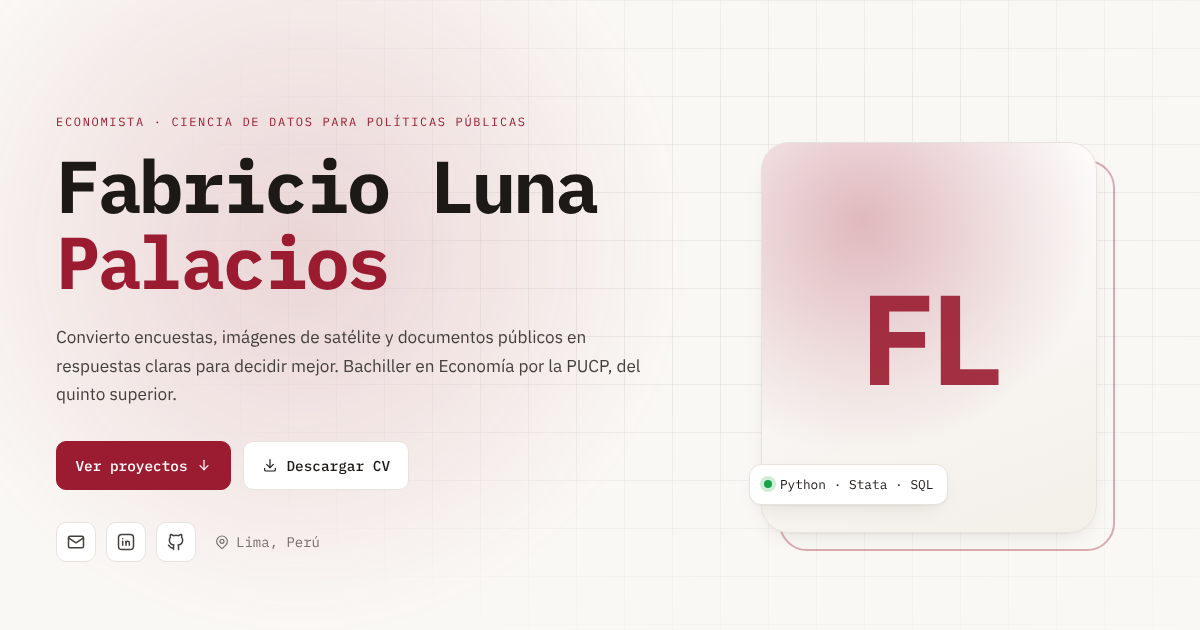
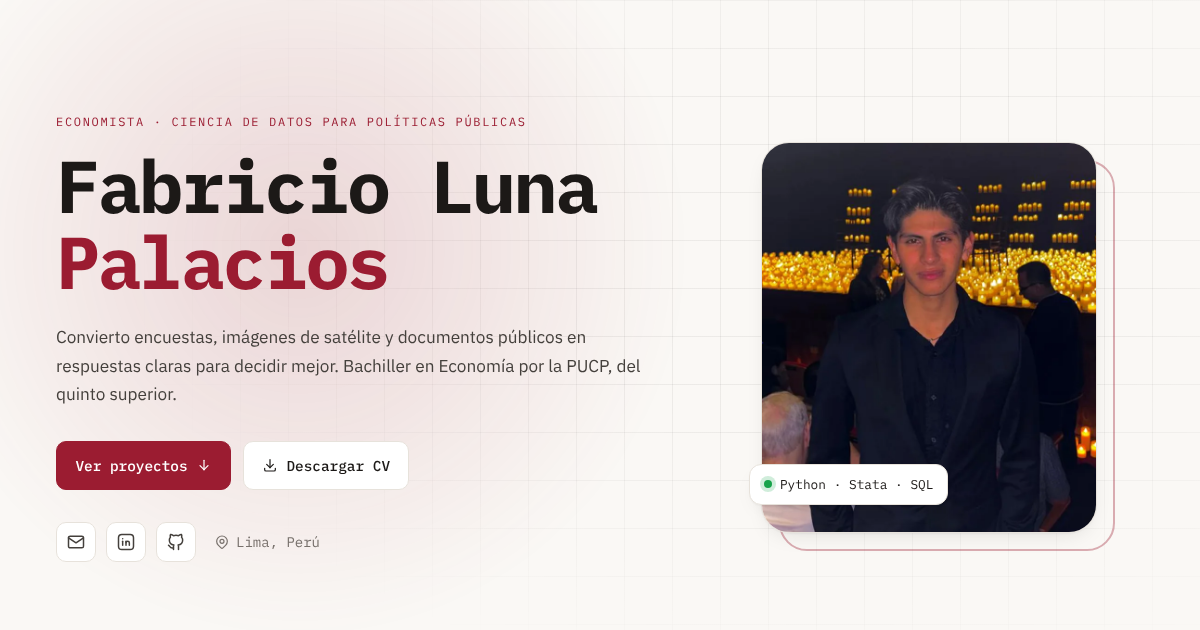
Agrega foto, hobbies con galería y el seminario del BCRP
Claude-Session: https://claude.ai/code/session_01HDh7XMuXSBMF3o1osrQZZj

Changed region(s): [[0.6167, 0.2111, 0.925, 0.8444]]

diff --git a/src/data/es.ts b/src/data/es.ts
@@ -29,7 +29,7 @@ export const es: SiteContent = {
     result: "Resultado",
     all: "Todos",
     skills: "Herramientas",
-    certifications: "Certificaciones",
+    certifications: "Certificaciones y eventos",
     achievements: "Logros",
     languages: "Idiomas",
     contactTitle: "¿Conversamos?",
@@ -45,6 +45,7 @@ export const es: SiteContent = {
     location: "Lima, Perú",
     tagline:
       "Convierto encuestas, imágenes de satélite y documentos públicos en respuestas claras para decidir mejor. Bachiller en Economía por la PUCP, del quinto superior.",
+    photo: "/images/fabricio.webp",
     initials: "FL",
     cv: "/files/CV_Fabricio_Luna.pdf",
     email: "luna.f@pucp.edu.pe",
@@ -282,23 +283,79 @@ export const es: SiteContent = {
     certifications: [
       "Análisis de Datos en Python · PUCP",
       "Machine Learning y Ciencia de Datos aplicada a Economía · PUCP",
+      "Seminario para el Congreso Bicameral · BCRP (23 oct 2026)",
     ],
     achievements: ["Top 10 % de rendimiento histórico de la Facultad de Ciencias Sociales, especialidad Economía (PUCP)."],
     languages: "Español nativo · Inglés B2",
   },
   beyond: {
     title: "Más allá de los datos",
-    intro: "Lo que hago cuando no estoy frente a una base de datos, y que también explica cómo trabajo.",
+    intro: "Lo que hago cuando no estoy frente a una base de datos: deporte, montaña, mar y un lado creativo.",
     items: [
       {
-        title: "Diseño y comunicación visual",
-        text: "Dirijo la línea gráfica de Económica PUCP: piezas, camisetas y materiales que hacen la economía más cercana.",
-        icon: "palette",
+        title: "Boxeo amateur",
+        detail: "1 pelea oficial ganada",
+        text: "Boxeador acreditado por la Academia Tito Montes de Cusco.",
+        icon: "boxing",
       },
       {
-        title: "Audiovisual y videopodcast",
-        text: "Grabo y produzco reels y videopodcast con el equipo de Económica. Contar bien una idea en un minuto es un buen entrenamiento.",
-        icon: "mic",
+        title: "Tiro con carabina",
+        detail: "Podio · Juegos Interfacultades PUCP 2026",
+        text: "Con mi equipo terminamos en el podio de tiro con carabina en los Juegos Interfacultades 2026.",
+        icon: "target",
+      },
+      {
+        title: "Downhill",
+        text: "Rutas en bicicleta por Cusco con mi primo, como la del Templo de la Luna.",
+        icon: "bike",
+      },
+      {
+        title: "Surf",
+        text: "Lo practico de forma recreativa.",
+        icon: "wave",
+      },
+      {
+        title: "Fútbol",
+        text: "Pichangas con mis amigos.",
+        icon: "ball",
+      },
+      {
+        title: "Canto, poesía y dibujo",
+        text: "Mi lado creativo: canto, escribo poesía y dibujo.",
+        icon: "pencil",
+      },
+      {
+        title: "Diseño y videopodcast",
+        detail: "Director de Arte e Imagen · Económica PUCP",
+        text: "Llevo la línea gráfica, los reels y el videopodcast que explican economía a públicos no especializados.",
+        icon: "palette",
+      },
+    ],
+    galleryTitle: "Momentos",
+    gallery: [
+      {
+        src: "/images/life/bcrp-seminario.webp",
+        alt: "Foto grupal de participantes en el Banco Central de Reserva del Perú",
+        caption: "Seminario del BCRP para el Congreso Bicameral · Lima, 23 de octubre de 2026",
+        position: "50% 60%",
+      },
+      {
+        src: "/images/life/congreso.webp",
+        alt: "Vista del hemiciclo del Congreso de la República del Perú desde la galería",
+        caption: "Hemiciclo del Congreso de la República",
+        position: "50% 45%",
+      },
+      {
+        src: "/images/life/interfacultades.webp",
+        alt: "Fabricio sostiene el trofeo de tiro con carabina junto a su compañera de equipo",
+        caption: "Podio en tiro con carabina · Juegos Interfacultades PUCP 2026",
+        position: "72% 20%",
+      },
+      {
+        src: "/images/life/futbol.webp",
+        alt: "Fabricio y sus amigos posan frente a un arco en una cancha de fútbol",
+        caption: "Fútbol con amigos",
+        position: "50% 55%",
       },
     ],
   },

diff --git a/src/data/en.ts b/src/data/en.ts
@@ -30,7 +30,7 @@ export const en: SiteContent = {
     result: "Result",
     all: "All",
     skills: "Tools",
-    certifications: "Certificates",
+    certifications: "Certificates & events",
     achievements: "Achievements",
     languages: "Languages",
     contactTitle: "Let's talk",
@@ -249,16 +249,32 @@ export const en: SiteContent = {
     certifications: [
       "Data Analysis in Python · PUCP",
       "Machine Learning and Data Science for Economics · PUCP",
+      "Seminar for the bicameral Congress · BCRP (23 Oct 2026)",
     ],
     achievements: ["Top 10 % all-time performance, Faculty of Social Sciences, Economics (PUCP)."],
     languages: "Spanish (native) · English (B2)",
   },
   beyond: {
     title: "Beyond data",
-    intro: "What I do away from a dataset, which also says something about how I work.",
+    intro: "What I do away from a dataset: sport, mountains, the sea and a creative side.",
     items: [
-      { title: "Design and visual communication", text: "I lead the visual identity of Económica PUCP: posts, T-shirts and materials that make economics feel closer.", icon: "palette" },
-      { title: "Video and podcasting", text: "I shoot and produce reels and a video podcast with the Económica team. Explaining one idea well in a minute is great practice.", icon: "mic" },
+      { title: "Amateur boxing", detail: "1 official fight won", text: "Certified boxer from the Tito Montes Academy in Cusco.", icon: "boxing" },
+      { title: "Rifle shooting", detail: "Podium · PUCP Inter-faculty Games 2026", text: "My team finished on the podium in rifle shooting at the 2026 Inter-faculty Games.", icon: "target" },
+      { title: "Downhill", text: "Bike rides around Cusco with my cousin, like the one to the Temple of the Moon.", icon: "bike" },
+      { title: "Surfing", text: "I surf recreationally.", icon: "wave" },
+      { title: "Football", text: "Pick-up games with my friends.", icon: "ball" },
+      { title: "Singing, poetry and drawing", text: "My creative side: I sing, write poetry and draw.", icon: "pencil" },
+      { title: "Design and video podcast", detail: "Art & Design Director · Económica PUCP", text: "I lead the visual identity, reels and video podcast that explain economics to non-specialist audiences.", icon: "palette" },
     ],
+    galleryTitle: "Moments",
+    gallery: es.beyond.gallery.map((g, i) => ({
+      ...g,
+      ...[
+        { alt: "Group photo of participants at Peru's Central Reserve Bank", caption: "BCRP seminar for the bicameral Congress · Lima, 23 October 2026" },
+        { alt: "View of the chamber of Peru's Congress from the gallery", caption: "Chamber of Peru's Congress" },
+        { alt: "Fabricio holds the rifle-shooting trophy next to his teammate", caption: "Rifle-shooting podium · PUCP Inter-faculty Games 2026" },
+        { alt: "Fabricio and friends pose in front of a goal on a football pitch", caption: "Football with friends" },
+      ][i],
+    })),
   },
 };

diff --git a/src/data/types.ts b/src/data/types.ts
@@ -40,7 +40,17 @@ export interface Study {
 export interface Hobby {
   title: string;
   text: string;
-  icon: "palette" | "mic" | "chart" | "mountain" | "book" | "ball";
+  icon: "palette" | "mic" | "chart" | "mountain" | "book" | "ball" | "boxing" | "target" | "bike" | "wave" | "pencil";
+  detail?: string;
+  image?: string;
+  imageAlt?: string;
+}
+
+export interface Photo {
+  src: string;
+  alt: string;
+  caption: string;
+  position?: string;
 }
 
 export interface SiteContent {
@@ -90,5 +100,5 @@ export interface SiteContent {
     achievements: string[];
     languages: string;
   };
-  beyond: { title: string; intro: string; items: Hobby[] };
+  beyond: { title: string; intro: string; items: Hobby[]; galleryTitle: string; gallery: Photo[] };
 }
